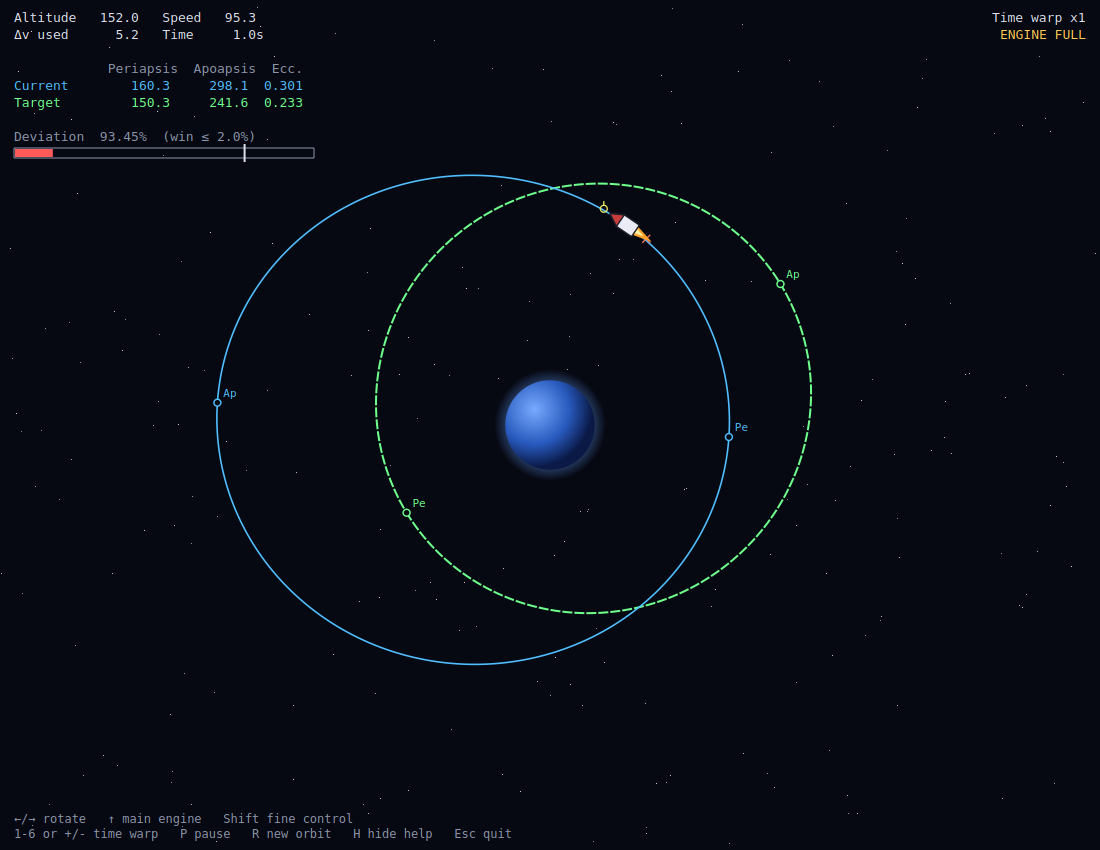
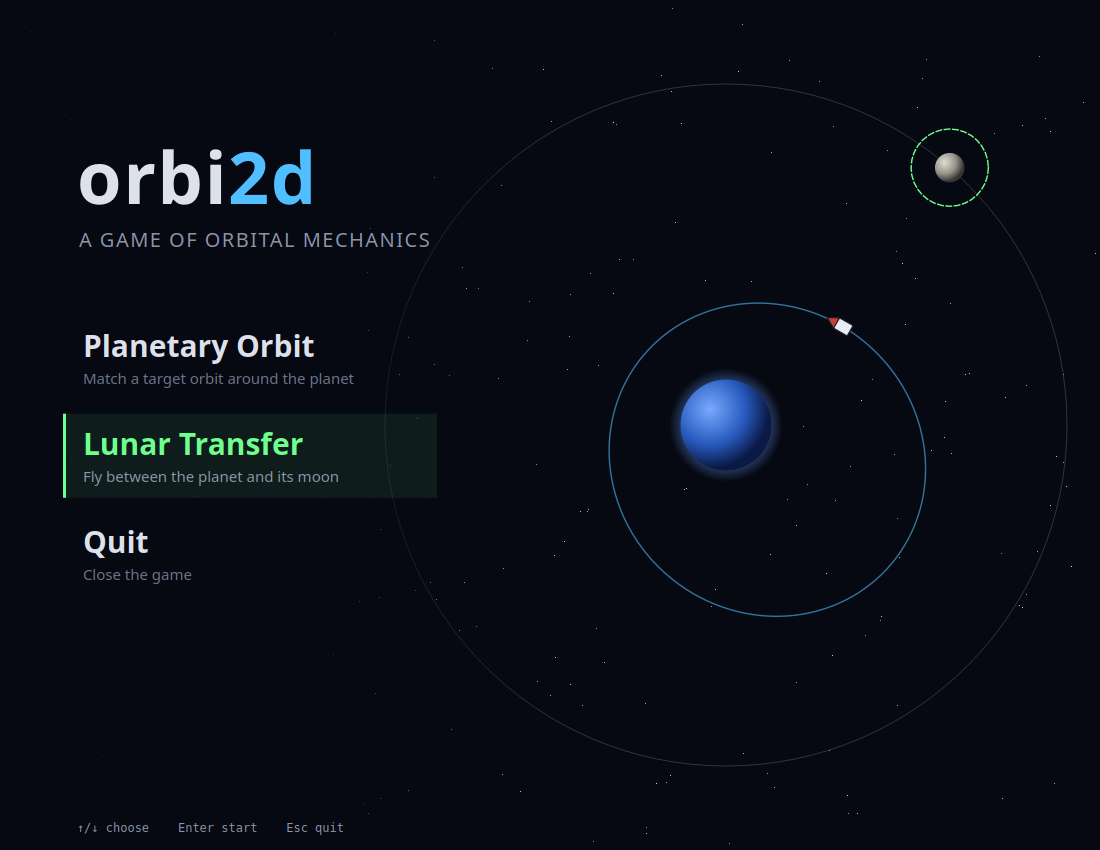
Show the start screen in the README screenshot

diff --git a/README.md b/README.md
@@ -1,6 +1,6 @@
 # orbi2d
 
-![orbi2d: the rocket firing its engine on its current orbit (blue) around the planet, with the target orbit dashed in green](https://raw.githubusercontent.com/PiRK/orbi2d/master/docs/screenshot.png)
+![orbi2d start screen: the menu (Planetary Orbit, Lunar Transfer, Quit) next to a planet with a ship on its orbit and a moon circling it](https://raw.githubusercontent.com/PiRK/orbi2d/master/docs/screenshot.png)
 
 A 2D orbital-mechanics game in Python + Qt (PySide6). Your rocket starts on a
 random orbit. Put it on the dashed green target orbit, to within 2% (the
